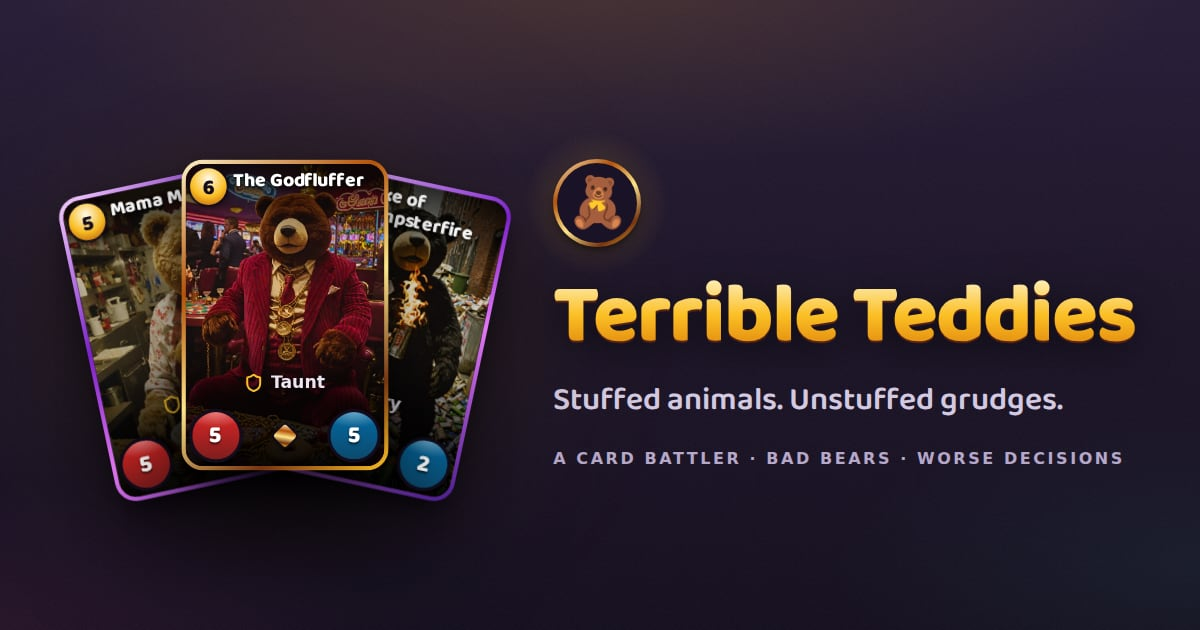
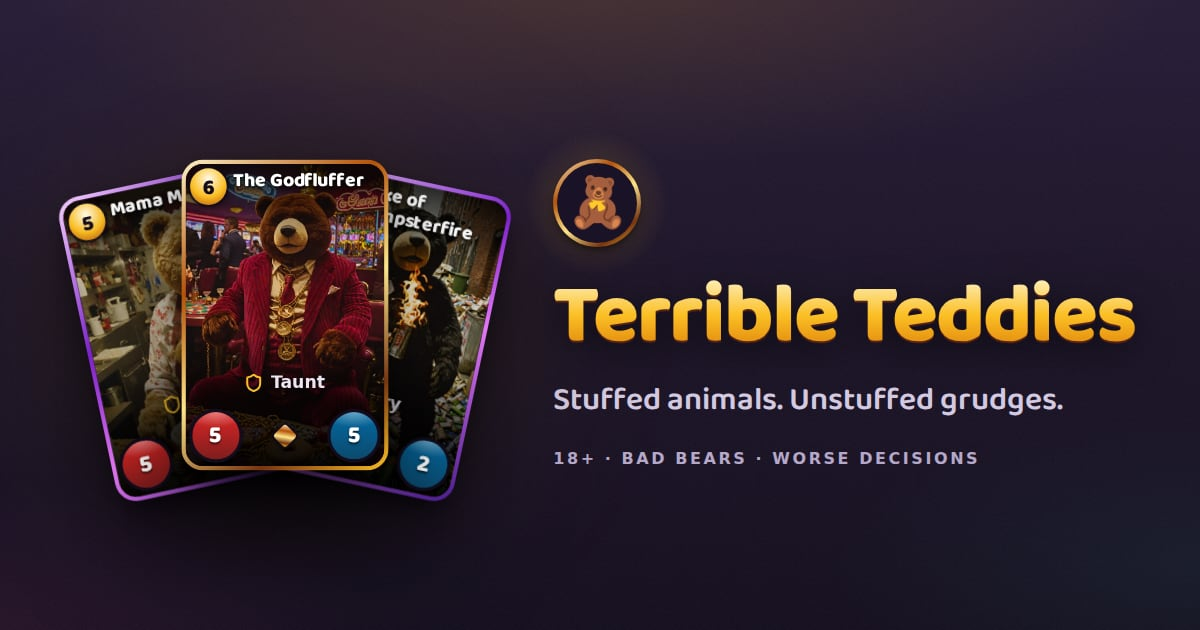
Apply the after-dark head copy: titles, descriptions, manifest, share card
Why: the deck's head tags say what the game is (18+, bad bears) in the house voice.
The failure subtitle edits index.html's one inline script, so vercel.json's
script-src hash moves with it (csp.test.js). The og picture is re-rendered with
the 18+ tagline and stays one row, 63 kB.

Claude-Session: https://claude.ai/code/session_011TQ3hdG428Nz8s1US5wYhg

Changed region(s): [[0.4625, 0.6937, 0.9558, 0.754]]

diff --git a/index.html b/index.html
@@ -9,21 +9,21 @@
     <meta name="apple-mobile-web-app-status-bar-style" content="black-translucent" />
     <meta name="mobile-web-app-capable" content="yes" />
 
-    <title>Terrible Teddies - Card Battle Game</title>
-    <meta name="description" content="Battle with naughty teddies in this addictive card game! Collect legendary cards, build powerful decks, and dominate the leaderboards." />
-    <meta name="keywords" content="card game, teddy bear game, battle cards, collectible cards, free game" />
+    <title>Terrible Teddies - 18+ Card Battler With Bad Habits</title>
+    <meta name="description" content="Cute teddy bears. Filthy mouths. An 18+ card battler: build a deck of degenerate bears and beat the stuffing out of Chuck. He's earned it." />
+    <meta name="keywords" content="card battler, 18+ card game, teddy bear game, collectible cards, mature humor, free to play" />
 
     <!-- og:url, og:image (with its size and alt) and twitter:image need the
          site's absolute address, which only the build knows: vite.config.js
          injects them from VITE_SITE_URL, and leaves them out without one. -->
     <meta property="og:type" content="website" />
     <meta property="og:site_name" content="Terrible Teddies" />
-    <meta property="og:title" content="Terrible Teddies - Card Battle Game" />
-    <meta property="og:description" content="Battle with naughty teddies in this addictive card game!" />
+    <meta property="og:title" content="Terrible Teddies - 18+ Card Battler With Bad Habits" />
+    <meta property="og:description" content="Bar fights, a tab nobody pays and one very smug bear named Chuck. Cards, fists and language you can't repeat at work." />
 
     <meta name="twitter:card" content="summary_large_image" />
-    <meta name="twitter:title" content="Terrible Teddies - Card Battle Game" />
-    <meta name="twitter:description" content="Battle with naughty teddies in this addictive card game!" />
+    <meta name="twitter:title" content="Terrible Teddies - 18+ Card Battler With Bad Habits" />
+    <meta name="twitter:description" content="Bar fights, a tab nobody pays and one very smug bear named Chuck. Cards, fists and language you can't repeat at work." />
 
     <link rel="manifest" href="/manifest.json" />
     <link rel="apple-touch-icon" sizes="180x180" href="/apple-touch-icon.png" />
@@ -318,7 +318,7 @@
             content.innerHTML =
               '<div class="loader-teddy">🧸</div>' +
               '<div class="loader-title">Couldn\'t load the game</div>' +
-              '<div class="loader-subtitle">Please check your connection and refresh.</div>' +
+              '<div class="loader-subtitle">Check your connection and reload. Blame the Wi-Fi. We already have.</div>' +
               '<button id="loader-reload" class="loader-reload-btn">Reload</button>';
             // No inline onclick= attribute: a script-src CSP (with no
             // 'unsafe-inline') silently drops inline event-handler attributes,

diff --git a/src/lib/siteMeta.js b/src/lib/siteMeta.js
@@ -11,7 +11,7 @@
 
 export const OG_IMAGE = { path: '/og-image.jpg', width: 1200, height: 630, type: 'image/jpeg' };
 export const OG_IMAGE_ALT =
-  "Three Terrible Teddies cards fanned beside the game's brass wordmark on a dark bar-room backdrop.";
+  "Three Terrible Teddies cards fanned beside the brass wordmark, the line “Stuffed animals. Unstuffed grudges.” and an 18+ label, on a dark bar-room backdrop.";
 
 /**
  * The site's origin (and base path, if any), without a trailing slash:

diff --git a/scripts/brand/brand.jsx b/scripts/brand/brand.jsx
@@ -99,7 +99,7 @@ const OpenGraph = () => (
         <p className="mt-5 font-display text-[32px] font-semibold leading-snug text-plush-200">
           Stuffed animals. Unstuffed grudges.
         </p>
-        <p className="label-caps mt-6 !text-[16px] text-plush-300">A card battler · Bad bears · Worse decisions</p>
+        <p className="label-caps mt-6 !text-[16px] text-plush-300">18+ · Bad bears · Worse decisions</p>
       </div>
     </div>
   </div>
